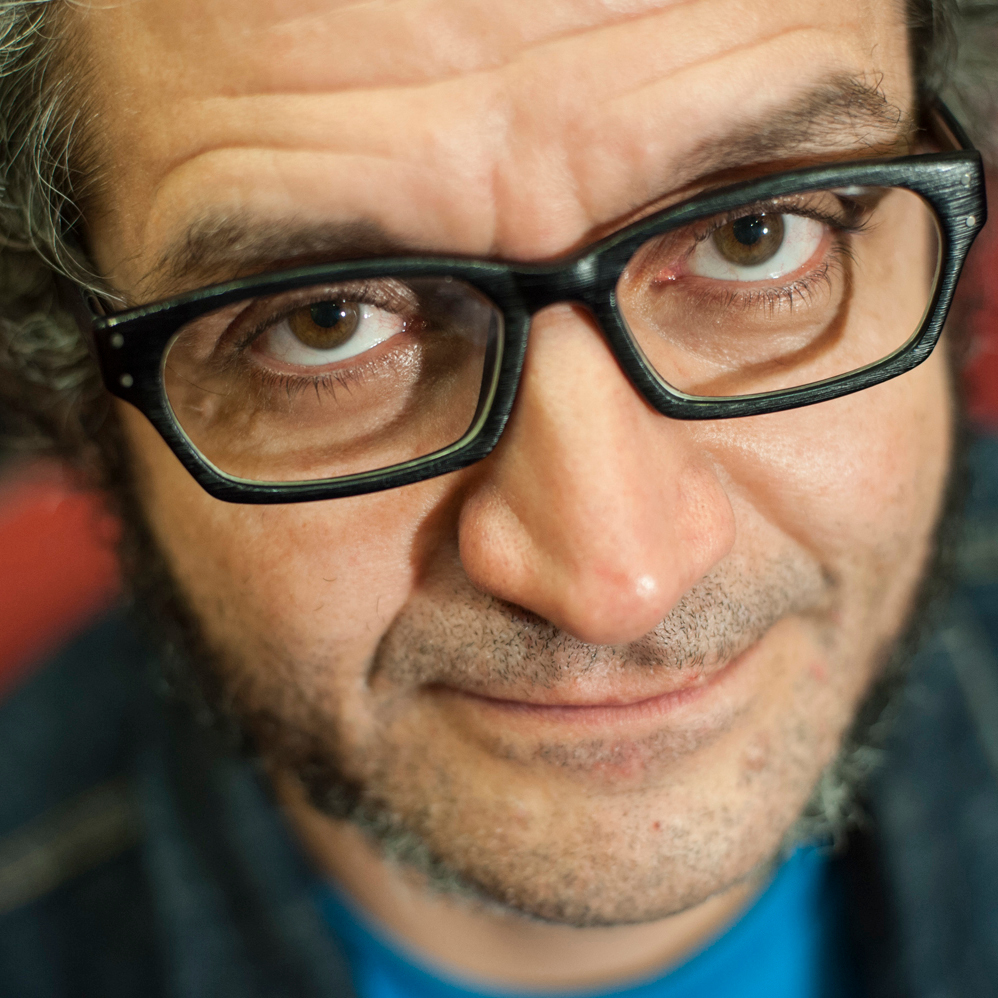
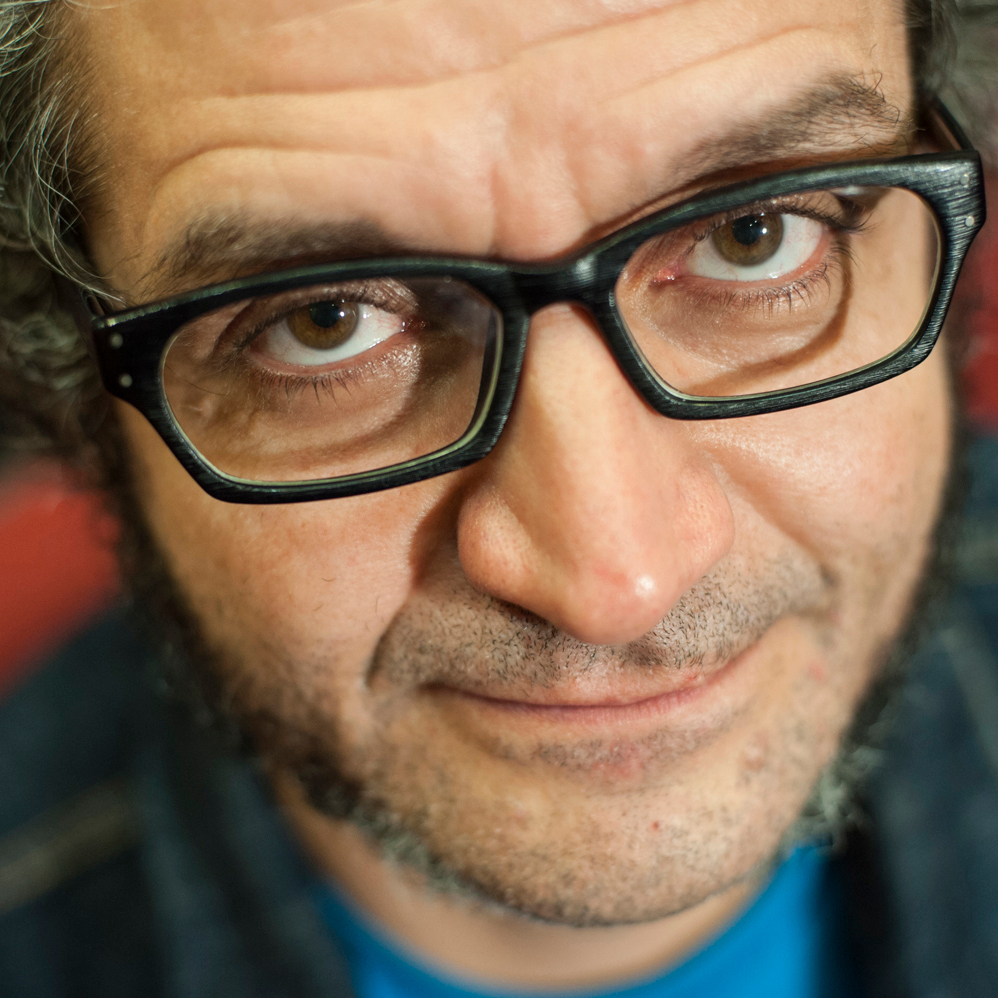
Updated mecateros pictures

diff --git a/_includes/snippets/projects.html b/_includes/snippets/projects.html
@@ -1,9 +1,41 @@
 {% for project in include.projects %}
 
-  <div class="col-md-{{ include.size }} col-md-{{ include.size }} text-center project">
-    <h2>{{ project.name }}</h2>
-    <img src="{{ project.img }}" class="img-responsive text-center"/>
-    <p class="text-justify">{{ project.description }}</p>
+  <div class="col-md-{{ include.size }} text-center project">
+    <div class="cuadro-pj">
+        <img src="{{ project.img }}" class="img-responsive text-center"/>
+      <div class="caption">
+        <div class="blur"></div>
+        <div class="caption-text">
+        <h4>{{ project.name }}</h4>
+        <p>{{ mecatero.bg }}</p>
+        <button type="button" class="btn btn-small " data-toggle="modal" data-target="#{{ project.name | slugify }}">
+          <span class="glyphicon glyphicon-plus">INFO</span>
+        </button>
+        </div>
+      </div>
+    </div>
+
+    <!-- Button trigger modal -->
+
+
+    <!-- Modal -->
+    <div class="modal fade" id="{{ project.name | slugify }}" tabindex="-1" role="dialog" aria-labelledby="{{ project.name | slugify }}Label">
+      <div class="modal-dialog" role="document">
+        <div class="modal-content">
+          <div class="modal-header">
+            <button type="button" class="close" data-dismiss="modal" aria-label="Close"><span aria-hidden="true">&times;</span></button>
+            <h2 class="modal-title" id="{{ project.name | slugify }}Label">{{ project.name }}</h2>
+          </div>
+          <div class="modal-body">
+            <p class="text-justify">{{ project.description }}</p>
+            <p></p>
+          </div>
+          <div class="modal-footer">
+            <button type="button" class="btn btn-default" data-dismiss="modal">Close</button>
+          </div>
+        </div>
+      </div>
+    </div>
   </div>
 
 {% endfor %}

diff --git a/css/mecate.scss b/css/mecate.scss
@@ -167,9 +167,9 @@ section {
 }
 
 #projects {
-  padding: 0px 0px;
+  padding: 30px 30px;
   .project {
-    min-height: 450px;
+    min-height: 150px;
     img {
       margin: 0px auto;
     }
@@ -239,4 +239,59 @@ section {
   -moz-transform:translateY(-145px);
   -ms-transform:translateY(-145px);
   -o-transform:translateY(-145px);
+}
+.cuadro-pj {
+  padding: 0px;
+  position: relative;
+  overflow: hidden;
+  height: 150px;
+  background-color: rgba(0, 0, 0, 0);
+  p {
+    text-align:center;
+  }
+  img {
+    z-index: 4;
+  }
+  .caption {
+    position: absolute;
+    top: 100%;
+    -webkit-transition:all 0.3s ease-in-out;
+    -moz-transition:all 0.3s ease-in-out;
+    -o-transition:all 0.3s ease-in-out;
+    -ms-transition:all 0.3s ease-in-out;
+    transition:all 0.3s ease-in-out;
+    width: 100%;
+    h4 {
+      border-top:2px solid white;
+      border-bottom:2px solid white;
+      padding:10px;
+    }
+  }
+  .blur {
+    background-color: rgba(0,0,0,0.5);
+    height: 900px;
+    z-index: 5;
+    position: absolute;
+    width: 100%;
+  }
+  .caption-text {
+    z-index: 10;
+    color: #fff;
+    position: absolute;
+    height: 300px;
+    text-align: center;
+    // top:-20px;
+    width: 100%;
+  }
+}
+.cuadro-pj:hover .caption {
+  opacity: 1;
+  transform: translateY(-145px);
+  -webkit-transform:translateY(-145px);
+  -moz-transform:translateY(-145px);
+  -ms-transform:translateY(-145px);
+  -o-transform:translateY(-145px);
+}
+.no-padding {
+  padding: 0px 0px;
 }

diff --git a/mecate/2015/index.html b/mecate/2015/index.html
@@ -30,7 +30,7 @@ lang: es
       </div>
     </div>
     <div class="row">
-      {% include snippets/mecateros.html mecateros=t.mecateros size='3'%}
+      {% include snippets/mecateros.html mecateros=t.mecateros size='2'%}
     </div>
   </div>
 </section>
@@ -48,7 +48,7 @@ lang: es
   </div>
 </section>
 
-<section id="gallery" class="section-short">
+<section id="media" class="section-short">
   <div class="container">
 
     <div class="row">
@@ -69,7 +69,7 @@ lang: es
           <h2 class="mecate-text"><a href="{{ pub.link }}">{{ pub.title }}</a><small>{{ pub.ref }}</small></h2>
         </div>
       {% endfor %}
-      
+
     </div><!-- /.row -->
 
   </div><!-- /.container -->

diff --git a/_includes/snippets/mecateros.html b/_includes/snippets/mecateros.html
@@ -1,5 +1,5 @@
 {% for mecatero in include.mecateros %}
-  <div class="col-sm-{{ include.size }} text-center">
+  <div class="col-sm-{{ include.size }} text-center no-padding">
 
     <div class="cuadro">
       <p class="img-btn">
